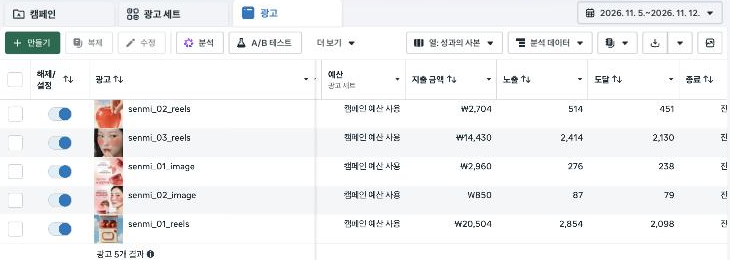
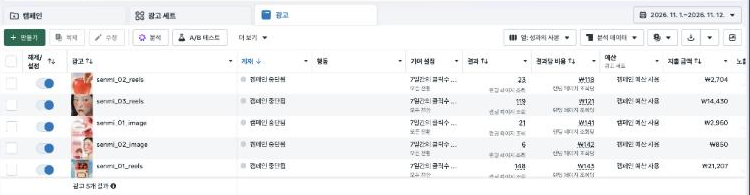
포트폴리오 기간 채우기, Meta 캠페인 종료 최종 수치·캡처 반영
Claude-Session: https://claude.ai/code/session_01JFfxUvGL9TvTmYzRZbv8Pu

diff --git a/portfolio/index.html b/portfolio/index.html
@@ -57,11 +57,11 @@ th{background:#f5f6f7;font-weight:500}
 <table><tr><th style="width:26%">전체 목표 (북극성 지표)</th><th>시작</th><th>목표</th><th>결과</th><th style="width:14%">출처</th></tr><tr><td>월 신규 구매 고객 수</td><td>0명</td><td>월 100명 = 첫 주문 매출 380.8만 원, ROAS 253.9%(가정, 월 매체비 150만 원) <span class="tag assume">가정</span></td><td>미측정(판매 없음) <span class="tag none">미측정</span></td><td>Day 32 고객가치·매체 계획 시트</td></tr></table>
 <table class="tall"><tr><th style="width:14%">축</th><th>목표</th><th style="width:26%">핵심 지표</th><th style="width:14%">장표</th></tr>
 <tr><td><span class="ax c">콘텐츠</span></td><td>사과 모양 호기심을 &#x27;내게 필요한 제품&#x27;으로 이해시키고 받아줄 랜딩·검색 접점 만들기</td><td>랜딩 구성 완성, 선정 검색 키워드 수</td><td>01–03</td></tr>
-<tr><td><span class="ax p">퍼포먼스</span></td><td>측정·검색 키워드를 준비하고 Meta 광고로 실제 방문 만들기</td><td>Meta 랜딩 조회 312회·링크 CPC 126원(실측, 11/12 기준) <span class="tag real">실측</span></td><td>04–06</td></tr>
+<tr><td><span class="ax p">퍼포먼스</span></td><td>측정·검색 키워드를 준비하고 Meta 광고로 실제 방문 만들기</td><td>Meta 랜딩 조회 317회·링크 CPC 127원(실측, 최종) <span class="tag real">실측</span></td><td>04–06</td></tr>
 <tr><td><span class="ax g">그로스</span></td><td>첫 구매 고객을 소진 시점 재구매로 잇기</td><td>70일 재구매율 18%, 12개월 LTV 50,680원(가정) <span class="tag assume">가정</span></td><td>07–08</td></tr></table>
 <table class="tall"><tr><th style="width:26%">내 사이트</th><th>만든 방법</th><th>측정 연결</th><th>테스트한 것</th></tr><tr><td>https://hanchaen.github.io/senmi-site/<br>운영 채널: 인스타그램 @senmi.kr (게시물 10·팔로워 33, 릴스 3개 조회 1,867·1,754·247 — 광고 재생 포함 가능, 11/12 기준) <span class="tag real">실측</span></td><td>GitHub Pages(저장소 hanchaen/senmi-site)</td><td>GTM(GTM-WTQ4BSVH)·Meta 픽셀(1648001186818737) 코드 삽입, GA4 이벤트 29개 코드 반영</td><td>QA 항목 10개 설계, GA4 보고서에서 이벤트 28종 실제 수집 확인(11/5~11/12) <span class="tag real">실측</span></td></tr></table>
 <div class="ft"><span>한채은 · senmi</span><span>00</span></div></section><section class="page">
-<div class="hd"><span class="no">01</span><span class="ax c">콘텐츠</span><span class="ttl">&#x27;수분 패치&#x27;를 &#x27;다음 날 화잘먹 준비&#x27;로 바꾼 포지셔닝·메시지 설계</span><span class="period">모름 (Day 7–11)</span></div>
+<div class="hd"><span class="no">01</span><span class="ax c">콘텐츠</span><span class="ttl">&#x27;수분 패치&#x27;를 &#x27;다음 날 화잘먹 준비&#x27;로 바꾼 포지셔닝·메시지 설계</span><span class="period">2026-09-15 ~ 09-21 (Day 7–11)</span></div>
 <div class="badges"><span class="b">ChatGPT</span><span class="b">Notion</span><span class="b">Figma</span><span class="b skill">콘텐츠 기획</span><span class="b skill">매체 전략</span></div>
 <table><tr><th style="width:26%">핵심 지표</th><th>시작</th><th>목표</th><th>결과</th><th style="width:14%">출처</th></tr><tr><td>경쟁 대비 차별점</td><td>수분·진정(경쟁과 같음)</td><td>고유 문제 1개</td><td>&#x27;다음 날 베이스 들뜸&#x27; 확정</td><td>Day 9 포지셔닝 맵</td></tr><tr><td>채널별 메시지</td><td>0개</td><td>4채널</td><td>IG·유튜브·블로그·광고 4채널 변환본</td><td>Day 10 메시지 하우스</td></tr></table>
 <div class="row3">
@@ -79,7 +79,7 @@ th{background:#f5f6f7;font-weight:500}
  <div class="box s3"><b>다음 목표 예상</b><div>실사용 비교 콘텐츠로 고려 단계 이탈 줄이기</div></div>
 </div>
 <div class="ft"><span>한채은 · senmi</span><span>01</span></div></section><section class="page">
-<div class="hd"><span class="no">02</span><span class="ax c">콘텐츠</span><span class="ttl">광고를 받아줄 senmi 상세형 랜딩 사이트 구축과 광고-히어로 연결 점검</span><span class="period">모름 (Day 31 구축) ~ 2026-11-05 (Day 40 점검)</span></div>
+<div class="hd"><span class="no">02</span><span class="ax c">콘텐츠</span><span class="ttl">광고를 받아줄 senmi 상세형 랜딩 사이트 구축과 광고-히어로 연결 점검</span><span class="period">2026-10-23 (Day 31 구축) ~ 11-05 (Day 40 점검)</span></div>
 <div class="badges"><span class="b">Codex</span><span class="b">GitHub Pages</span><span class="b">GTM</span><span class="b skill">랜딩 제작</span><span class="b skill">CRO</span></div>
 <table><tr><th style="width:26%">핵심 지표</th><th>시작</th><th>목표</th><th>결과</th><th style="width:14%">출처</th></tr><tr><td>랜딩 구성</td><td>없음</td><td>구매·소식 신청까지 한 페이지</td><td>히어로·상품 옵션·후기·STORY·FAQ·소식 신청 폼·개인정보 안내 등 12개 영역</td><td>사이트</td></tr><tr><td>광고 소재와 히어로 메시지 일치</td><td>미점검</td><td>5개 소재(릴스 3·이미지 2) 모두 일치</td><td>제품 색·형태는 5개 모두 일치, 사용 상황(사무실 볼 건조·화장 전)은 히어로 첫 문장에 없음</td><td>Day 40 점검 보고서(2026-11-05)</td></tr></table>
 <div class="row3">
@@ -115,7 +115,7 @@ th{background:#f5f6f7;font-weight:500}
  <div class="box s3"><b>다음 목표 예상</b><div>상세페이지에 성분·사용법·매수·1회 비용을 본문 텍스트로 정리, &#x27;메이크업 전 사용법&#x27; 글 발행, 실사용 후기 확보 후 AI 답변 인용 여부 재조사</div></div>
 </div>
 <div class="ft"><span>한채은 · senmi</span><span>03</span></div></section><section class="page">
-<div class="hd"><span class="no">04</span><span class="ax p">퍼포먼스</span><span class="ttl">장바구니 구매 클릭까지 보이게 만든 GA4 이벤트 29개 측정 설계</span><span class="period">모름 (Day 34)</span></div>
+<div class="hd"><span class="no">04</span><span class="ax p">퍼포먼스</span><span class="ttl">장바구니 구매 클릭까지 보이게 만든 GA4 이벤트 29개 측정 설계</span><span class="period">2026-10-28 (Day 34)</span></div>
 <div class="badges"><span class="b">GA4</span><span class="b">GTM</span><span class="b">Meta 픽셀</span><span class="b skill">측정 설계</span><span class="b skill">지표 해석</span></div>
 <table><tr><th style="width:26%">핵심 지표</th><th>시작</th><th>목표</th><th>결과</th><th style="width:14%">출처</th></tr><tr><td>설계한 이벤트</td><td>page_view만</td><td>구매 흐름 전 단계</td><td>29개(권장·맞춤) 설계, 코드 확인</td><td>GA4 이벤트 설계표</td></tr><tr><td>핵심 KPI 장바구니 구매 클릭 전환율</td><td>없음</td><td>정의·측정</td><td>view_cart 19명 중 begin_checkout 10명 = 52.6% (사용자 기준, 세션 기준 재확인 필요)</td><td>GA4 이벤트 보고서 <span class="tag real">실측</span></td></tr></table>
 <div class="row3">
@@ -151,22 +151,22 @@ th{background:#f5f6f7;font-weight:500}
  <div class="box s3"><b>다음 목표 예상</b><div>소액 집행으로 그룹별 실제 CTR·CPC 확인, 클릭 0 키워드 정리</div></div>
 </div>
 <div class="ft"><span>한채은 · senmi</span><span>05</span></div></section><section class="page">
-<div class="hd"><span class="no">06</span><span class="ax p">퍼포먼스</span><span class="ttl">릴스 3·이미지 2 소재로 랜딩 방문을 모은 Meta 트래픽 캠페인 (진행 중)</span><span class="period">2026-11-06 ~ 진행 중 (수치는 11/12 조회 기준)</span></div>
+<div class="hd"><span class="no">06</span><span class="ax p">퍼포먼스</span><span class="ttl">릴스 3·이미지 2 소재로 랜딩 방문을 모은 Meta 트래픽 캠페인</span><span class="period">2026-11-06 ~ 2026-11-12 (종료)</span></div>
 <div class="badges"><span class="b">Meta 광고 관리자</span><span class="b">Meta 픽셀</span><span class="b">Instagram</span><span class="b skill">소재 변주</span><span class="b skill">지표 해석</span></div>
-<table><tr><th style="width:26%">핵심 지표</th><th>시작</th><th>목표</th><th>결과</th><th style="width:14%">출처</th></tr><tr><td>랜딩 페이지 조회</td><td>0회</td><td>모름</td><td>312회 (실측)</td><td>Meta 광고 관리자 <span class="tag real">실측</span></td></tr><tr><td>링크 CPC</td><td>300원(Day 32 가정)</td><td>가정보다 낮게</td><td>126원 (실측)</td><td>Meta 광고 관리자 <span class="tag real">실측</span></td></tr></table>
+<table><tr><th style="width:26%">핵심 지표</th><th>시작</th><th>목표</th><th>결과</th><th style="width:14%">출처</th></tr><tr><td>랜딩 페이지 조회</td><td>0회</td><td>따로 정하지 않음</td><td>317회 (실측)</td><td>Meta 광고 관리자 <span class="tag real">실측</span></td></tr><tr><td>링크 CPC</td><td>300원(Day 32 가정)</td><td>가정보다 낮게</td><td>127원 (실측)</td><td>Meta 광고 관리자 <span class="tag real">실측</span></td></tr></table>
 <div class="row3">
  <div class="box s1"><b>상황 분석</b><div>랜딩·픽셀은 준비됐지만 실제 방문자가 0명. 어떤 소재가 방문을 만드는지 모름. 지금까지 CPC·CTR은 전부 가정값</div></div>
  <div class="box s1"><b>개선 목표</b><div>같은 캠페인 예산으로 소재 5개를 돌려 실제 방문 단가를 확인하고 가정과 비교</div></div>
- <div class="box s1"><b>가설</b><div>모름</div></div>
+ <div class="box s1"><b>가설</b><div>사전 가설은 세우지 않음 → Day 32 가정(CTR 1.5%·CPC 300원)을 비교 기준으로 삼음</div></div>
 </div>
 <div class="row2">
  <div class="box s2"><b>실행</b><div>캠페인 senmi_applepatch_traffic_01 → 목표 랜딩 페이지 조회, 일 예산 5,800원(캠페인 예산), 최고 볼륨 입찰 → 광고 5개(senmi_01~03_reels, senmi_01~02_image) → 픽셀로 랜딩 조회 측정</div></div>
  <div class="box s2"><b>증거</b><div class="shot"><img src="img/06_meta_ads_manager.png" alt=""></div></div>
 </div>
 <div class="row3">
- <div class="box s3"><b>결과</b><div>지출 41,187원 · 노출 6,115 · 도달 4,703 · CPM 6,735원 · 링크 CTR 5.36% · 링크 CPC 126원 · 랜딩 조회 312회 · 랜딩 조회당 약 132원 (실측, 11/5~11/12). 소재별 랜딩 조회·단가: 01_reels 143회·142원 / 03_reels 119회·121원 / 02_reels 23회·118원 / 01_image 21회·141원 / 02_image 6회·142원 (실측)</div></div>
- <div class="box s3"><b>재분석</b><div>링크 CTR 5.36%·CPC 126원은 Day 32 가정(CTR 1.5%·CPC 300원)보다 좋음. 다만 지출의 약 84%가 01·03 릴스에 몰려 소재 간 우열 판단은 이름(02_image 클릭 6회). GA4 Paid Social 세션 360회·참여율 31.1%·평균 참여 2초 (실측)로 Organic Search(1분 12초)보다 크게 낮음 → 방문은 싸게 모았지만 대부분 바로 나감</div></div>
- <div class="box s3"><b>다음 목표 예상</b><div>종료 후 최종 수치로 교체, 히어로 수정 후 Paid Social 참여율 31% 개선 여부 비교, GA4에서 Meta 유입 세션의 begin_checkout·generate_lead 확인</div></div>
+ <div class="box s3"><b>결과</b><div>최종: 지출 42,146원 · 노출 6,228 · 도달 4,790 · CPM 6,767원 · 링크 CTR 5.35% · 링크 CPC 127원 · 랜딩 조회 317회 · 랜딩 조회당 133원 (실측, 11/6~11/12). 소재별 랜딩 조회·단가: 01_reels 148회·143원 / 03_reels 119회·121원 / 02_reels 23회·118원 / 01_image 21회·141원 / 02_image 6회·142원</div></div>
+ <div class="box s3"><b>재분석</b><div>링크 CTR 5.35%·CPC 127원은 Day 32 가정(CTR 1.5%·CPC 300원)보다 좋음. 다만 지출의 약 85%가 01·03 릴스에 몰려 소재 간 우열은 판단하기 이름(02_image 조회 6회). GA4 Paid Social 참여율 31.1%·평균 참여 2초 (실측, 11/12 조회)로 Organic Search(1분 12초)보다 크게 낮음 → 방문은 싸게 모았지만 대부분 바로 나감</div></div>
+ <div class="box s3"><b>다음 목표 예상</b><div>다음 캠페인은 목표 조회 수·가설을 먼저 정하고 시작, 히어로 수정 후 Paid Social 참여율 31% 개선 여부 비교, GA4에서 Meta 유입 세션의 begin_checkout·generate_lead 확인</div></div>
 </div>
 <div class="ft"><span>한채은 · senmi</span><span>06</span></div></section><section class="page">
 <div class="hd"><span class="no">07</span><span class="ax g">그로스</span><span class="ttl">소진 시점에 맞춰 재구매를 부르는 CRM 라이프사이클 6단계 설계</span><span class="period">2026-11-10 (Day 43)</span></div>
@@ -187,7 +187,7 @@ th{background:#f5f6f7;font-weight:500}
  <div class="box s3"><b>다음 목표 예상</b><div>구독 폼에 광고 수신 동의(선택) 추가, 첫 4주 실측 후 목표 재설정</div></div>
 </div>
 <div class="ft"><span>한채은 · senmi</span><span>07</span></div></section><section class="page">
-<div class="hd"><span class="no">08</span><span class="ax g">그로스</span><span class="ttl">고객 100명의 12개월 구매 경로로 계산한 LTV와 허용 광고비</span><span class="period">모름 (Day 32)</span></div>
+<div class="hd"><span class="no">08</span><span class="ax g">그로스</span><span class="ttl">고객 100명의 12개월 구매 경로로 계산한 LTV와 허용 광고비</span><span class="period">2026-10-26 (Day 32)</span></div>
 <div class="badges"><span class="b">Google Sheets</span><span class="b skill">퍼널 분석</span><span class="b skill">예산 설계</span></div>
 <table><tr><th style="width:26%">핵심 지표</th><th>시작</th><th>목표</th><th>결과</th><th style="width:14%">출처</th></tr><tr><td>고객당 12개월 매출 LTV</td><td>없음</td><td>산출</td><td>50,680원(가정)</td><td>고객가치 시트 <span class="tag assume">가정</span></td></tr><tr><td>공헌이익 LTV ÷ 광고 CAC</td><td>없음</td><td>1배 이상</td><td>1.79배(가정)</td><td>고객가치 시트 <span class="tag assume">가정</span></td></tr></table>
 <div class="row3">
@@ -209,7 +209,7 @@ th{background:#f5f6f7;font-weight:500}
 <table><tr><th style="width:26%">전체 목표 (북극성 지표)</th><th>시작</th><th>목표</th><th>결과</th><th style="width:14%">출처</th></tr><tr><td>월 신규 구매 고객 수</td><td>0명</td><td>월 100명(가정) <span class="tag assume">가정</span></td><td>미측정 — 판매 없음 <span class="tag none">미측정</span></td><td>Day 32 시트</td></tr></table>
 <table><tr><th style="width:14%">축</th><th>결과</th><th>재분석</th></tr>
 <tr style="height:22mm"><td><span class="ax c">콘텐츠</span></td><td>포지셔닝 확정, 랜딩 공개.</td><td>점검 결과 광고 약속과 히어로 첫 문장이 어긋남 → 같은 약속이 이어지게 고쳐야 함</td></tr>
-<tr style="height:22mm"><td><span class="ax p">퍼포먼스</span></td><td>GA4 29개 설계, 네이버 키워드 20개. Meta 트래픽 캠페인으로 41,187원 지출, 랜딩 조회 312회·링크 CPC 126원(실측) <span class="tag real">실측</span></td><td>→ 클릭 단가는 가정(300원)보다 좋았음. 하지만 Paid Social 참여율 31.1%·평균 2초(실측, GA4)로 방문의 질이 낮음</td></tr>
+<tr style="height:22mm"><td><span class="ax p">퍼포먼스</span></td><td>GA4 29개 설계, 네이버 키워드 20개. Meta 트래픽 캠페인으로 42,146원 지출, 랜딩 조회 317회·링크 CPC 127원(실측) <span class="tag real">실측</span></td><td>→ 클릭 단가는 가정(300원)보다 좋았음. 하지만 Paid Social 참여율 31.1%·평균 2초(실측, GA4)로 방문의 질이 낮음</td></tr>
 <tr style="height:22mm"><td><span class="ax g">그로스</span></td><td>CRM 6단계와 LTV 모형 완성.</td><td>재구매율이 모두 가정이고 광고 수신 동의를 받는 구조가 아직 없음</td></tr></table>
 <div class="top2">
  <div class="box s5"><b>지금 병목</b><div>광고 방문자가 첫 화면에서 바로 나감 — Paid Social 참여율 31.1%·평균 2초, 상세 조회 → 장바구니 담기 5.5% (실측, GA4). 광고가 약속한 상황이 히어로에 없다는 Day 40 점검과 같은 지점 <span class="tag real">실측</span></div></div>
